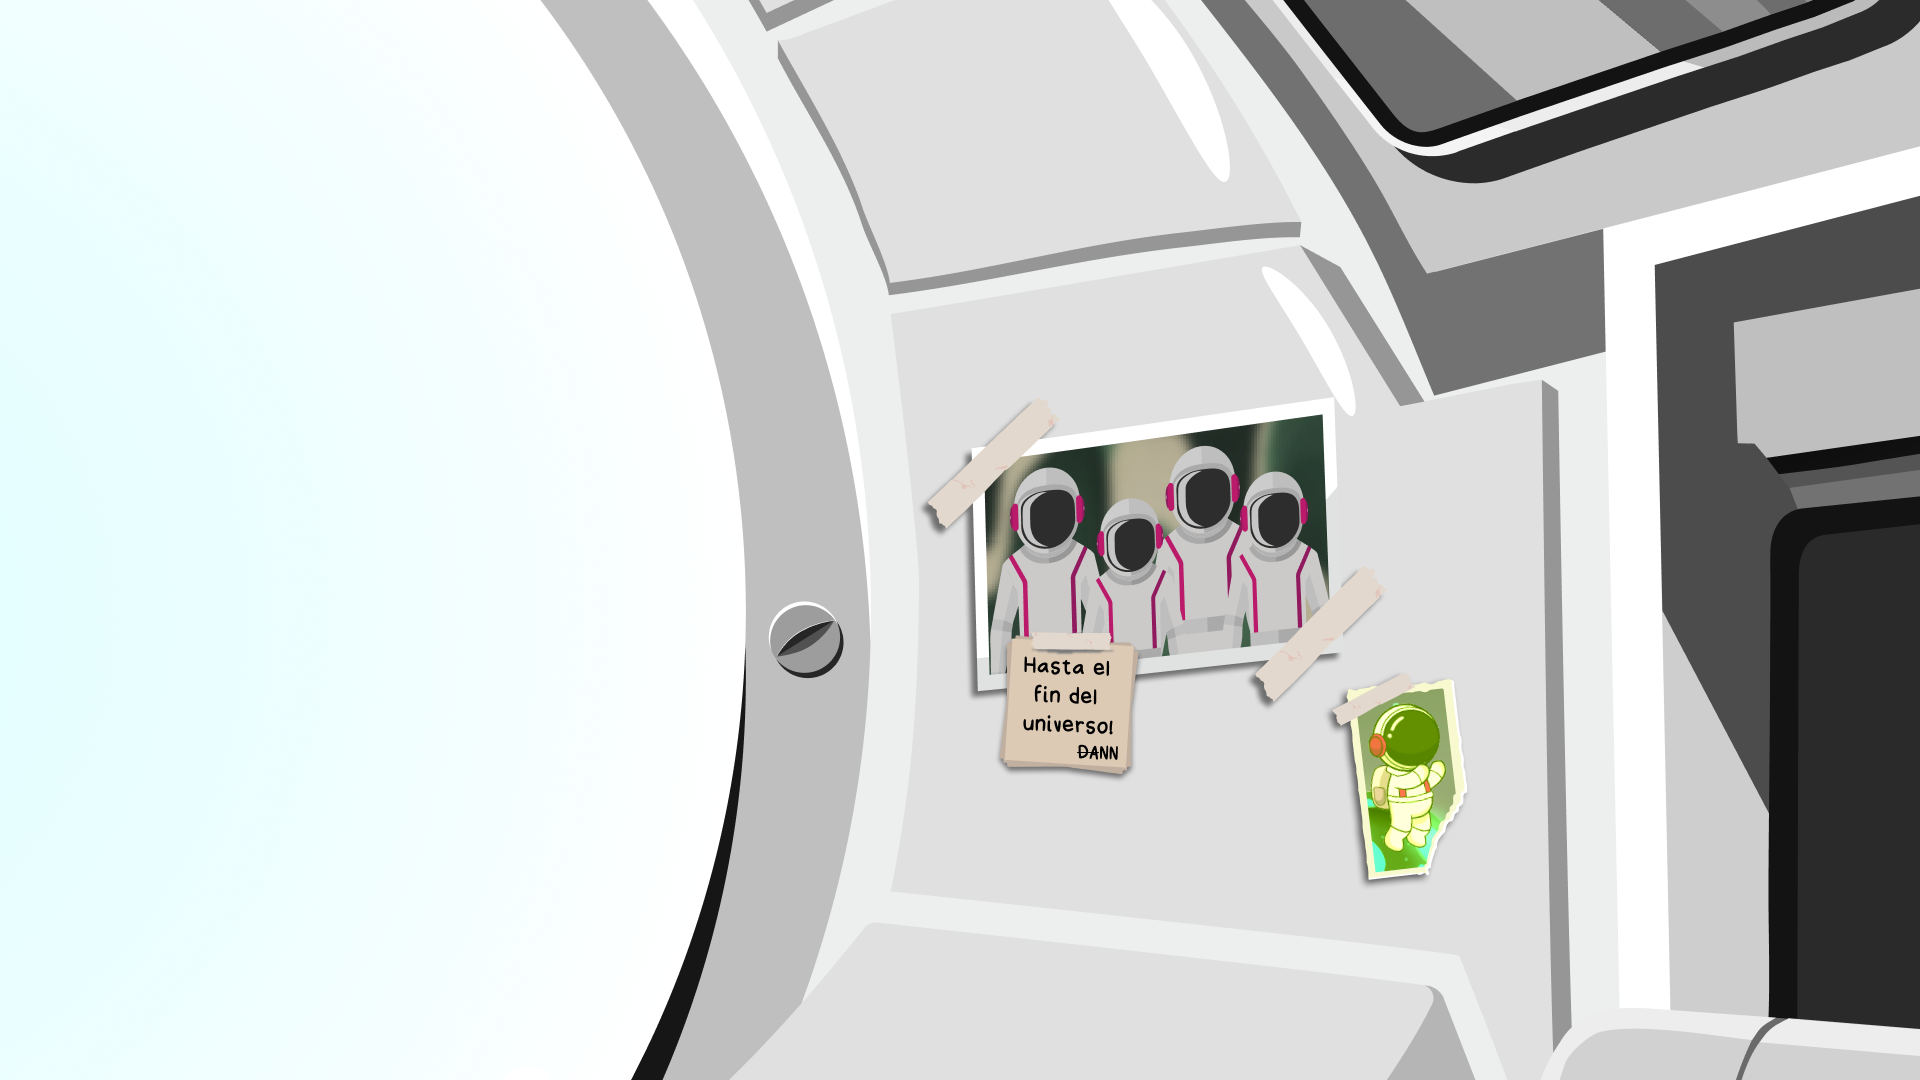
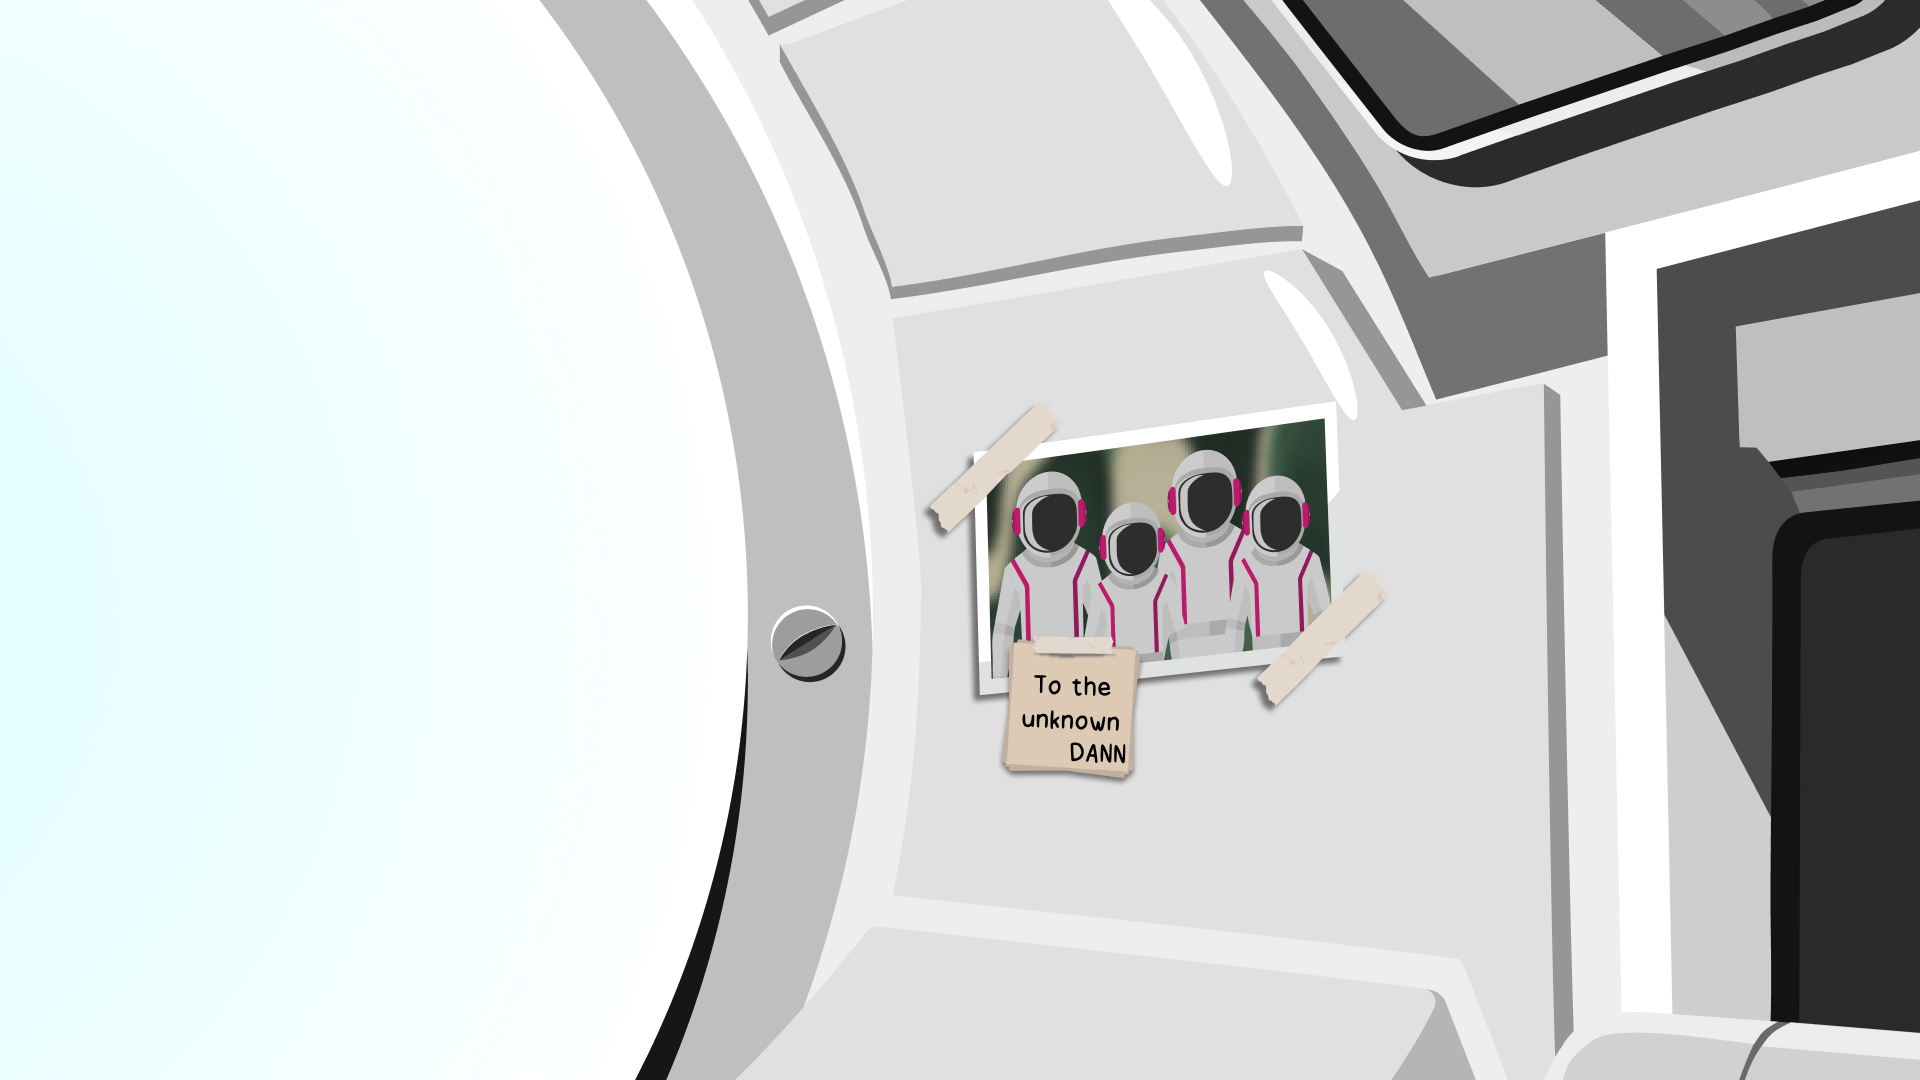
opacity 100% & vignette

diff --git a/game/movies/Intro/cineIntro2B.ts b/game/movies/Intro/cineIntro2B.ts
@@ -67,6 +67,14 @@ class cineIntro2B {
     }
   }
 
+  fixPosAndScale(items: Phaser.GameObjects.Image[], x: number, y: number, scale: number){
+    for (let i = 0; i < items.length; i++) {
+      if (i + 1 <= items.length) {
+        items[i].setPosition(items[i].x + x, items[i].y + y).setScale(scale)
+      }
+    }
+  }
+
   playCine(this: cineIntro2B) {
     // START ticker
     this.cine.time.addEvent({
@@ -87,7 +95,9 @@ class cineIntro2B {
     console.log(window.innerHeight, window.innerWidth, "dimension");
     this.radarInnerCircle1 = this.cine.add
       .image(0, 0, "radarInnerCircle1-red")
-      .setOrigin(0.5);
+      .setOrigin(0.5)
+      .setScale(0.8)
+      .setPosition(0, -200);
     this.radarInnerCircle2 = this.cine.add
       .image(0, 0, "radarInnerCircle2-red")
       .setOrigin(0.5);
@@ -241,6 +251,7 @@ class cineIntro2B {
       this.dangerSign,
     ];
 
+
     const assetsScenes = [
       this.backgroundPanel,
       this.radarInnerCircle1,
@@ -313,7 +324,7 @@ class cineIntro2B {
         [
           {
             delay: 1000,
-            keepAlive: 3000,
+            keepAlive: 300000,
           },
           {
             delay: 500,

diff --git a/game/movies/Intro/cineIntro2.ts b/game/movies/Intro/cineIntro2.ts
@@ -62,11 +62,12 @@ class cineIntro2 {
     this.part1SetUp = this.cine.add
       .image(0, 0, "part1SetUp")
       .setOrigin(0.5)
-      .setSize(window.innerWidth, window.innerHeight);
+      .setSize(window.innerWidth, window.innerHeight)
+      .setVisible(false);
     this.part2SetUp = this.cine.add
       .image(0, 0, "part2SetUp")
       .setOrigin(0.5)
-      .setVisible(false);
+      
     // panelControl
 
    
@@ -115,6 +116,8 @@ class cineIntro2 {
     spaceshipAmbientSoundEffect.play();
 
     const part1 = (job: TickerJob) => {
+      this.part1SetUp?.setVisible(true);
+      this.part2SetUp?.setVisible(false);
       this.dialogue = new DialogueManager(
         this.cine,
         [
@@ -240,12 +243,12 @@ class cineIntro2 {
     };
 
     this.ticker.addJob(
-      new TickerJob(1, 10, part1, false, undefined, true, (job: TickerJob) => {
+      new TickerJob(1, 10, part2, false, undefined, true, (job: TickerJob) => {
         this.ticker.addNextJob(
           new TickerJob(
             2,
             0,
-            part2,
+            part1,
             false,
             undefined,
             true,

diff --git a/game/movies/Intro/cineInto1.ts b/game/movies/Intro/cineInto1.ts
@@ -100,9 +100,9 @@ class cineIntro1 {
       this.shipZoomOn,
     ];
 
-    gameObjects.forEach((gameObject) => {
-      gameObject.setAlpha(brightness);
-    });
+    // gameObjects.forEach((gameObject) => {
+    //   gameObject.setAlpha(brightness);
+    // });
 
     const container = this.cine.add
       .container(middlePoint.x, middlePoint.y)
@@ -351,7 +351,7 @@ class cineIntro1 {
 
   update(this: cineIntro1, time: number, delta: number) {
     if (this.dialogue) this.dialogue.update();
-    if (this.nextCine) this.cine.scene.restart({ keyname: "cine_intro_2" });
+    if (this.nextCine) this.cine.scene.restart({ keyname: "cine_intro_2B" });
   }
 }
 

diff --git a/game/movies/startMovie.ts b/game/movies/startMovie.ts
@@ -157,7 +157,7 @@ class startMovie extends Phaser.Scene {
           ) as CinematographyModular;
 
         startButton.on("pointerdown", ()=>{
-            getCinematographyMod.scene.start("CinematographyMod", {keyname: "cine_intro_1"}).bringToTop("CinematographyMod")
+            getCinematographyMod.scene.start("CinematographyMod", {keyname: "cine_intro_2B"}).bringToTop("CinematographyMod")
         })
         startButton.on("pointerup", ()=>{
             this.scene.stop()
